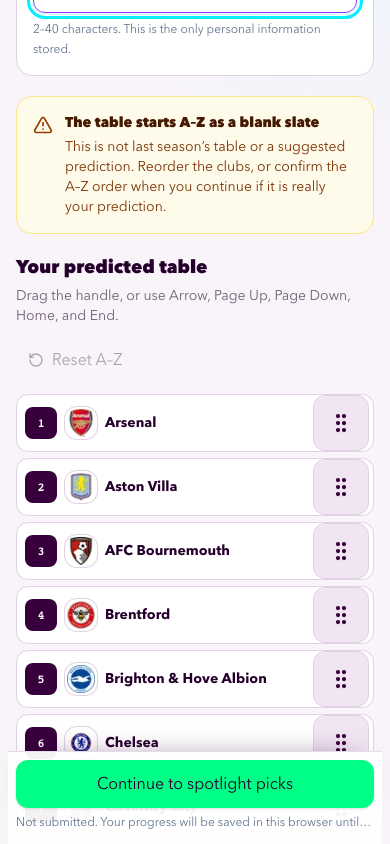
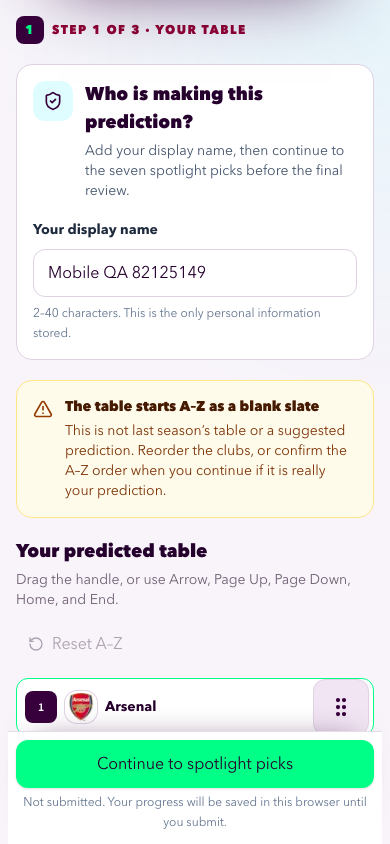
fix: resolve reviewed mobile and result presentation issues

diff --git a/src/app/rules/page.tsx b/src/app/rules/page.tsx
@@ -59,7 +59,7 @@ export default function RulesPage() {
             <Badge className="bg-accent text-brand ring-accent">
               2026/27 competition
             </Badge>
-            <Badge variant="warning">Five manual results pending</Badge>
+            <Badge variant="accent">Owner-reviewed results</Badge>
           </div>
           <div className="mt-5 flex items-start gap-3">
             <ListChecks
@@ -187,15 +187,16 @@ export default function RulesPage() {
                 Player list and Other
               </h2>
               <p className="mt-1 text-sm leading-6 text-slate-600">
-                The 2026-08-13 snapshot covers 582 players across all 20 clubs.
+                The 2026-08-20 snapshot covers 580 players across all 20 clubs.
                 It is the owner-selected, internally reconciled roster for this
                 game, not an independently verified official league list. Player
                 selectors search first, last, or full name after two letters and
-                show up to 20 matches; 582 supplied portraits appear locally.
-                Choose Other player for anyone unavailable or new. A silhouette
-                appears only if a portrait is missing or fails to load. Each
-                custom name must be matched to a canonical season player before
-                its reviewed result dataset can be published and scored.
+                show up to 20 matches; 578 supplied portraits appear locally.
+                Ryan McAidoo and Luc De Fougerolles use the silhouette fallback.
+                Choose Other player for anyone unavailable or newly added. A
+                silhouette also appears if a portrait fails to load. Each custom
+                name must be matched to a canonical season player before its
+                reviewed result dataset can be published and scored.
               </p>
             </CardContent>
           </Card>
@@ -225,11 +226,12 @@ export default function RulesPage() {
             <div>
               <h2 className="font-black text-amber-950">Current data status</h2>
               <p className="mt-1 text-sm leading-6 text-amber-900">
-                The app now stores and displays all seven picks. Underdog-team
-                and overrated-team accuracy can recalculate from the group
-                tables and active standings. The player roster and available
-                portraits are loaded. {RULES_PENDING_RESULTS_MESSAGE} Only
-                complete submitted entries appear in the active bracket count.
+                The app stores and displays all seven picks. Underdog-team and
+                overrated-team accuracy can recalculate from the group tables
+                and active standings. The player roster and available portraits
+                are loaded. {RULES_PENDING_RESULTS_MESSAGE} Result snapshots
+                remain provisional until the owner finalizes them. Only complete
+                submitted entries appear in the active bracket count.
               </p>
             </div>
           </CardContent>

diff --git a/src/components/how-to-play.tsx b/src/components/how-to-play.tsx
@@ -12,13 +12,13 @@ const walkthroughSteps = [
         label:
           "Enter your display name first, then drag the handles or use Arrow, Page Up, Page Down, Home, and End.",
         marker: "1",
-        position: { left: "86%", top: "52%" },
+        position: { left: "96%", top: "84%" },
       },
       {
         label:
           "A–Z is only a blank slate. Reorder it, or explicitly confirm A–Z if that is your real prediction.",
         marker: "2",
-        position: { left: "84%", top: "18%" },
+        position: { left: "96%", top: "53%" },
       },
     ],
     description:
@@ -34,13 +34,13 @@ const walkthroughSteps = [
         label:
           "Type at least two letters to search up to 20 player matches; Other player always remains available.",
         marker: "1",
-        position: { left: "84%", top: "70%" },
+        position: { left: "96%", top: "37%" },
       },
       {
         label:
           "Complete all seven categories, then use Review all predictions.",
         marker: "2",
-        position: { left: "84%", top: "91%" },
+        position: { left: "96%", top: "91%" },
       },
     ],
     description:
@@ -56,13 +56,13 @@ const walkthroughSteps = [
         label:
           "Confirm the champion, seven spotlight picks, and table summary; expand the middle positions if needed.",
         marker: "1",
-        position: { left: "57%", top: "3%" },
+        position: { left: "96%", top: "51%" },
       },
       {
         label:
           "Submit only when everything is right; a completed entry cannot be edited.",
         marker: "2",
-        position: { left: "84%", top: "96%" },
+        position: { left: "96%", top: "94%" },
       },
     ],
     description:
@@ -121,7 +121,7 @@ export function HowToPlay() {
                   {walkthrough.callouts.map((callout) => (
                     <span
                       aria-hidden="true"
-                      className="bg-accent text-brand absolute grid size-8 -translate-x-1/2 -translate-y-1/2 place-items-center rounded-full text-sm font-black shadow-[0_6px_16px_rgba(38,0,45,0.35)] ring-4 ring-white/90"
+                      className="bg-accent text-brand absolute grid size-7 -translate-x-1/2 -translate-y-1/2 place-items-center rounded-full text-xs font-black shadow-[0_6px_16px_rgba(38,0,45,0.35)] ring-2 ring-white/90"
                       key={callout.marker}
                       style={callout.position}
                     >

diff --git a/tests/e2e/app-journey.spec.ts b/tests/e2e/app-journey.spec.ts
@@ -144,6 +144,22 @@ async function capturePlainEvidence(
   });
 }
 
+async function positionWalkthroughCapture(
+  page: import("@playwright/test").Page,
+  anchor: import("@playwright/test").Locator,
+) {
+  await anchor.evaluate((element) => {
+    if (document.activeElement instanceof HTMLElement) {
+      document.activeElement.blur();
+    }
+    const top = element.getBoundingClientRect().top + window.scrollY - 16;
+    window.scrollTo({ behavior: "instant", left: 0, top: Math.max(0, top) });
+  });
+  await expect
+    .poll(() => page.evaluate(() => window.scrollY))
+    .toBeGreaterThan(0);
+}
+
 async function handleCenter(
   handle: import("@playwright/test").Locator,
 ): Promise<{ x: number; y: number }> {
@@ -748,9 +764,7 @@ test("mobile journey preserves privacy and gives the owner full control", async 
     /^Arsenal, predicted position 1 of 20$/,
   );
   await page.getByRole("textbox", { name: "Your display name" }).fill(qaName);
-  await page
-    .getByRole("heading", { name: "Who is making this prediction?" })
-    .evaluate((element) => element.scrollIntoView({ block: "start" }));
+  await positionWalkthroughCapture(page, page.locator("main form").first());
   await capturePlainEvidence(
     page,
     walkthroughScreenshotDirectory,
@@ -797,9 +811,10 @@ test("mobile journey preserves privacy and gives the owner full control", async 
   const customPlayerNames = await completeSpotlightPicks(page, qaName);
   await expectCompletePredictionDraftPersisted(page, qaName);
   await expect(page.getByText(/Draft saved in this browser/u)).toBeVisible();
-  await page
-    .getByRole("heading", { name: "Make your spotlight picks" })
-    .evaluate((element) => element.scrollIntoView({ block: "start" }));
+  await positionWalkthroughCapture(
+    page,
+    page.getByRole("heading", { name: "Make your spotlight picks" }),
+  );
   await capturePlainEvidence(
     page,
     walkthroughScreenshotDirectory,

diff --git a/tests/components/prediction-form.test.tsx b/tests/components/prediction-form.test.tsx
@@ -623,7 +623,9 @@ describe("PredictionForm", () => {
     expect(onSuccess).toHaveBeenCalledWith(result, submitted);
     expect(onError).not.toHaveBeenCalled();
     expect(await screen.findByText(/you’re in, Vishal Doshi/i)).toBeVisible();
-    expect(window.localStorage.getItem(storageKey)).toBeNull();
+    await waitFor(() =>
+      expect(window.localStorage.getItem(storageKey)).toBeNull(),
+    );
     expect(
       screen.getByRole("link", { name: /view confirmation/i }),
     ).toHaveAttribute("href", "/entries/entry-123");
@@ -1267,7 +1269,27 @@ describe("PredictionForm", () => {
 
     expect(stickyAction).toHaveClass("sticky", "bottom-0");
     expect(stickyAction?.className).toContain("safe-area-inset-bottom");
+    expect(stickyAction).toHaveClass("bg-white");
+    expect(screen.getByText(/^not submitted\./i)).not.toHaveClass("truncate");
     expect(reviewButton).toHaveClass("w-full", "min-h-12");
+  });
+
+  it("removes fixed positioning from the closed-state action", () => {
+    render(
+      <PredictionForm
+        disabled
+        disabledReason="Predictions are permanently closed."
+        teams={teams}
+        onSubmit={vi.fn()}
+      />,
+    );
+
+    const reviewButton = screen.getByRole("button", {
+      name: /continue to spotlight picks/i,
+    });
+    expect(reviewButton.closest("div.border-border\\/80")).not.toHaveClass(
+      "sticky",
+    );
   });
 
   it("hides the sticky review action while a selector popup is open", async () => {

diff --git a/tests/unit/public-copy.test.ts b/tests/unit/public-copy.test.ts
@@ -9,17 +9,16 @@ import {
 describe("participant-facing result copy", () => {
   it("uses the approved home and spotlight explanations verbatim", () => {
     expect(HOME_SPOTLIGHT_MESSAGE).toBe(
-      "Spotlight picks have a separate just-for-fun score. The owner will add the five remaining result lists after they have been reviewed.",
+      "Spotlight picks have a separate just-for-fun score. Reviewed result lists appear as soon as the owner publishes them.",
     );
     expect(SPOTLIGHT_SCORING_MESSAGE).toBe(
-      "Your pick earns more spotlight points the higher that player or club finishes in its result list. Only ready result lists count.",
+      "Your pick earns more spotlight points the higher that player or club finishes in its result list. Only published result lists count. Provisional snapshots can include large shared-rank ties, including players on zero goals or assists.",
     );
   });
 
   it("keeps pending semantics plain and excludes internal process language", () => {
-    expect(RULES_PENDING_RESULTS_MESSAGE).toContain(
-      "pending and do not count against anyone",
-    );
+    expect(RULES_PENDING_RESULTS_MESSAGE).toContain("stay pending");
+    expect(RULES_PENDING_RESULTS_MESSAGE).toContain("do not count");
     for (const message of [
       HOME_SPOTLIGHT_MESSAGE,
       SPOTLIGHT_SCORING_MESSAGE,

diff --git a/src/features/predictions/prediction-form.tsx b/src/features/predictions/prediction-form.tsx
@@ -1109,9 +1109,9 @@ export function PredictionForm({
       ) : null}
 
       <div
-        className={`border-border/80 sticky bottom-0 z-20 -mx-2 border-t bg-white/95 px-2 pt-2 pb-[max(0.75rem,env(safe-area-inset-bottom))] shadow-[0_-16px_30px_-26px_rgba(55,0,60,0.6)] sm:static sm:mx-0 sm:border-0 sm:bg-transparent sm:p-0 sm:shadow-none ${
-          stage === "spotlight" && expandedSelectorCategory ? "hidden" : ""
-        }`}
+        className={`border-border/80 z-20 -mx-2 border-t bg-white px-2 pt-2 pb-[max(0.75rem,env(safe-area-inset-bottom))] shadow-[0_-16px_30px_-26px_rgba(55,0,60,0.6)] sm:static sm:mx-0 sm:border-0 sm:bg-transparent sm:p-0 sm:shadow-none ${
+          disabled ? "static" : "sticky bottom-0"
+        } ${stage === "spotlight" && expandedSelectorCategory ? "hidden" : ""}`}
       >
         <div
           className={
@@ -1163,7 +1163,7 @@ export function PredictionForm({
         <p
           id="review-button-help"
           aria-live="polite"
-          className="mt-1 truncate text-center text-xs leading-5 text-slate-500"
+          className="mt-1 px-1 text-center text-xs leading-5 text-slate-500"
         >
           {stage === "table"
             ? draftStatusMessage

diff --git a/src/content/public-copy.ts b/src/content/public-copy.ts
@@ -1,8 +1,8 @@
 export const HOME_SPOTLIGHT_MESSAGE =
-  "Spotlight picks have a separate just-for-fun score. The owner will add the five remaining result lists after they have been reviewed.";
+  "Spotlight picks have a separate just-for-fun score. Reviewed result lists appear as soon as the owner publishes them.";
 
 export const SPOTLIGHT_SCORING_MESSAGE =
-  "Your pick earns more spotlight points the higher that player or club finishes in its result list. Only ready result lists count.";
+  "Your pick earns more spotlight points the higher that player or club finishes in its result list. Only published result lists count. Provisional snapshots can include large shared-rank ties, including players on zero goals or assists.";
 
 export const RULES_PENDING_RESULTS_MESSAGE =
-  "The owner will add the five remaining result lists after they have been reviewed. Until then, those categories stay pending and do not count against anyone.";
+  "Published result lists count immediately. Categories without a published result stay pending and do not count against anyone.";

diff --git a/src/app/entries/[id]/page.tsx b/src/app/entries/[id]/page.tsx
@@ -114,6 +114,13 @@ export default async function EntryPage({
                   just-for-fun accuracy appears as result lists become available
                   and never changes the 100-point table score.
                 </p>
+                {entry.snapshot && !entry.snapshot.isFinal ? (
+                  <p className="mt-2 text-xs leading-5 font-semibold text-amber-800">
+                    Accuracy uses provisional published snapshots. Shared ties
+                    can award the same high rank, including zero-stat rows early
+                    in the season.
+                  </p>
+                ) : null}
               </div>
               <div className="flex flex-wrap items-center gap-2">
                 <Badge

diff --git a/tests/components/spotlight-views.test.tsx b/tests/components/spotlight-views.test.tsx
@@ -87,7 +87,7 @@ describe("spotlight category and matrix views", () => {
     expect(within(board).getAllByRole("heading", { level: 2 })).toHaveLength(7);
     expect(within(board).getAllByText("Result live")).toHaveLength(1);
     expect(within(board).getAllByText("Result pending")).toHaveLength(6);
-    expect(within(board).getByText("Rank 1")).toBeVisible();
+    expect(within(board).getByText("Result rank 1 · 2 pts")).toBeVisible();
     expect(within(board).getByText("Outside range · 0 pts")).toBeVisible();
     expect(within(board).getByText("Other")).toBeVisible();
   });

diff --git a/src/features/leaderboard/entry-link.tsx b/src/features/leaderboard/entry-link.tsx
@@ -16,7 +16,7 @@ export function LeaderboardEntryLink({
   return (
     <Link
       className={cn(
-        "inline-flex min-h-11 items-center font-black [overflow-wrap:anywhere] text-slate-950 underline decoration-slate-300 decoration-2 underline-offset-4 hover:decoration-slate-700",
+        "inline-flex min-h-11 min-w-0 items-center font-black [overflow-wrap:break-word] text-slate-950 underline decoration-slate-300 decoration-2 underline-offset-4 hover:decoration-slate-700",
         className,
       )}
       href={`/entries/${entryId}`}

diff --git a/src/features/predictions/prediction-landing.tsx b/src/features/predictions/prediction-landing.tsx
@@ -72,7 +72,7 @@ export async function PredictionLanding({
                   ? "Submissions open"
                   : "Submissions closed"}
               </p>
-              <p className="mt-1 hidden text-xs leading-5 text-white/65 sm:block">
+              <p className="mt-1 text-xs leading-5 text-white/65">
                 Submission deadline:{" "}
                 {formatUtcDateTime(access.submissionDeadline)} · Arsenal v
                 Coventry kickoff

diff --git a/tests/components/leaderboard-entry-link.test.tsx b/tests/components/leaderboard-entry-link.test.tsx
@@ -20,10 +20,11 @@ describe("LeaderboardEntryLink", () => {
       "/entries/00000000-0000-4000-8000-000000000001",
     );
     expect(link).toHaveClass(
-      "[overflow-wrap:anywhere]",
+      "[overflow-wrap:break-word]",
       "underline",
       "decoration-2",
     );
+    expect(link).not.toHaveClass("[overflow-wrap:anywhere]");
     expect(link).not.toHaveClass("truncate");
   });
 });
